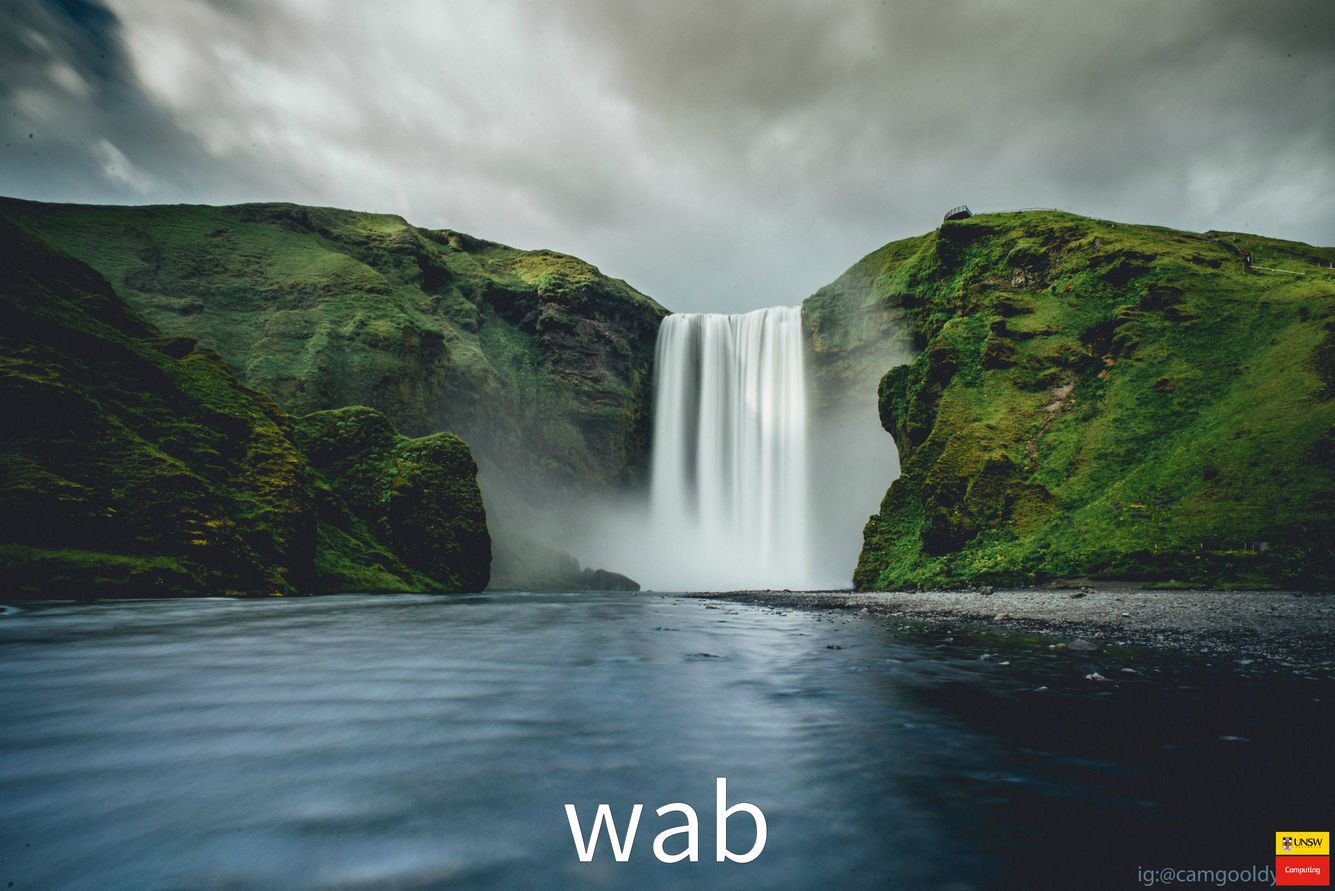
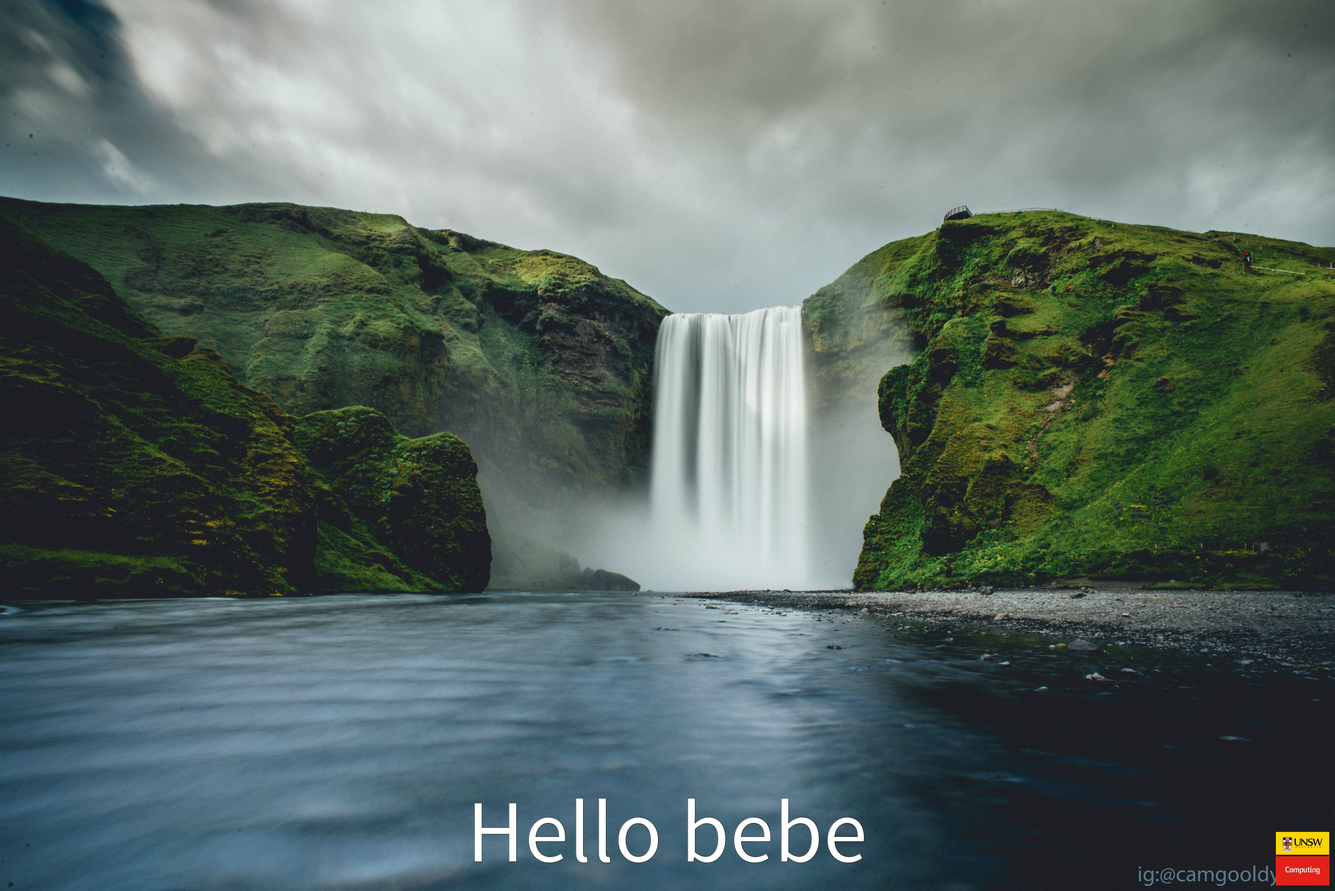
Changes

Changed region(s): [[0.3438, 0.8738, 0.6562, 0.9675]]

diff --git a/templates/booth.html b/templates/booth.html
@@ -54,7 +54,7 @@ input.hide, .button.hide, .hide {
       <div class="panel" id="photo_pane">
         It's time to take a photo!
       </div>
-      <input type="text" id="caption" class="hide" placeholder="Caption your photo?">
+      <input type="text" id="caption" class="hide" maxlength="30" placeholder="Caption your photo? (30 characters)">
       <input type="text" id="email" class="hide" placeholder="Your email address...">
 
       <a href="#" id="take_photo" class="button large">Take Photo</a><br />
@@ -77,39 +77,68 @@ input.hide, .button.hide, .hide {
       $('#save_photo').fadeOut();
       $('#caption').fadeOut();
       $('#email').fadeOut();
-      $('#photo_pane').html("<h1>3... 2... 1... Cheese!");
+      var timer = setInterval(function() { handleTimer(); }, 1000);
       // 3, 2, 1, then go to the thing
-      $.get( "/take_photo", function( data ) {
-        var img = $('<img />', {
-          "src": "/pictures/" + data.name
+      function endCountdown() {
+      // logic to finish the countdown here
+        $('#photo_pane').html("<h1>Say Cheese!</h1>");
+        $.get( "/take_photo", function( data ) {
+          var img = $('<img />', {
+            "src": "/pictures/" + data.name
+          });
+          photo_name = data.name;
+          $('#photo_pane').html(img);
+          $('#retake_photo').fadeIn();
+          $('#save_photo').fadeIn();
+          $('#caption').fadeIn();
+          $('#email').fadeIn();
         });
-        photo_name = data.name;
-        $('#photo_pane').html(img);
-        $('#retake_photo').fadeIn();
-        $('#save_photo').fadeIn();
-        $('#caption').fadeIn();
-        $('#email').fadeIn();
-      });
+    }
+    var count = 3;
+    function handleTimer() {
+      if(count === 0) {
+        clearInterval(timer);
+        endCountdown();
+      } else {
+        $('#photo_pane').html("<h1>"+ count + "...</h1>");
+        count--;
+      }
+    }
     });
+
 
 
 
     $( "#take_photo" ).click(function() {
       $(this).fadeOut();
       $('#photo_booth_header').fadeOut();
-      $('#photo_pane').html("<h1>3... 2... 1... Cheese!");
+      var timer = setInterval(function() { handleTimer(); }, 1000);
       // 3, 2, 1, then go to the thing
-      $.get( "/take_photo", function( data ) {
-        var img = $('<img />', {
-          "src": "/pictures/" + data.name
+      function endCountdown() {
+      // logic to finish the countdown here
+        $('#photo_pane').html("<h1>Say Cheese!</h1>");
+        $.get( "/take_photo", function( data ) {
+          var img = $('<img />', {
+            "src": "/pictures/" + data.name
+          });
+          photo_name = data.name;
+          $('#photo_pane').html(img);
+          $('#retake_photo').fadeIn();
+          $('#save_photo').fadeIn();
+          $('#caption').fadeIn();
+          $('#email').fadeIn();
         });
-        photo_name = data.name;
-        $('#photo_pane').html(img);
-        $('#retake_photo').fadeIn();
-        $('#save_photo').fadeIn();
-        $('#caption').fadeIn();
-        $('#email').fadeIn();
-      });
+    }
+    var count = 3;
+    function handleTimer() {
+      if(count === 0) {
+        clearInterval(timer);
+        endCountdown();
+      } else {
+        $('#photo_pane').html("<h1>"+ count + "...</h1>");
+        count--;
+      }
+    }
     });
 
     $( "#save_photo" ).click(function() {

diff --git a/csebooth.py b/csebooth.py
@@ -58,7 +58,7 @@ def save_photo(name):
             if caption:
                with Drawing() as draw:
                   draw.font = 'font.otf'
-                  draw.font_size = 400
+                  draw.font_size = 300
                   draw.stroke_color = Color('#000')
                   draw.fill_color = Color('#fff')
                   draw.text_alignment = "center"
@@ -66,7 +66,7 @@ def save_photo(name):
                   draw(img)
             img.save(filename='generated/' + name)
    if email:
-      thr = threading.Thread(target=mail, args=("johnwiseheart@gmail.com",
+      thr = threading.Thread(target=mail, args=(email,
          "Your photo from CSE Open Day",
          "generated/" + name), kwargs={})
       thr.start() # will run "foo"
